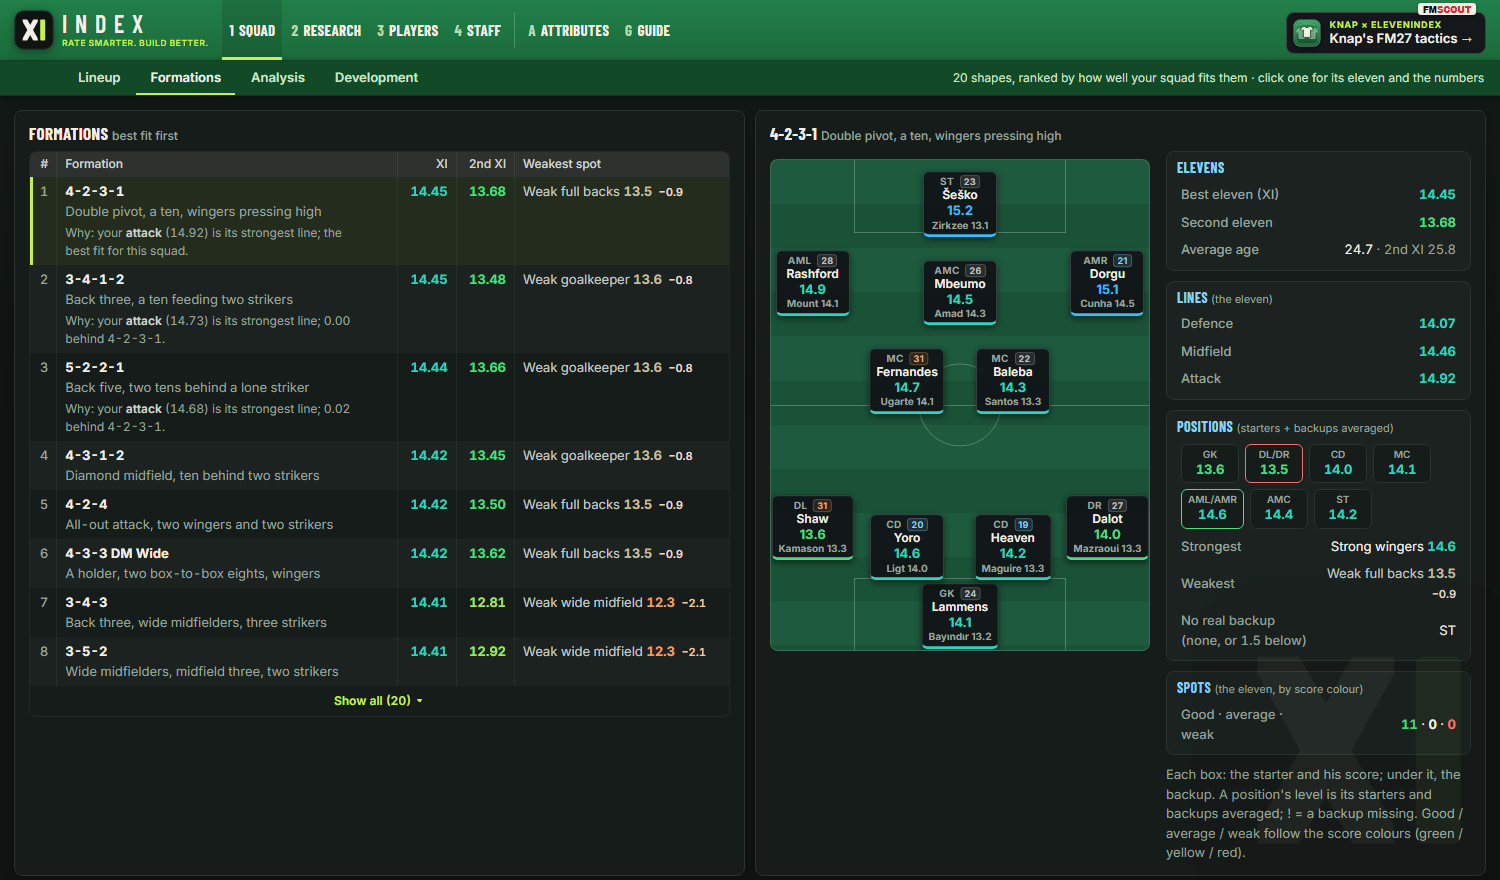
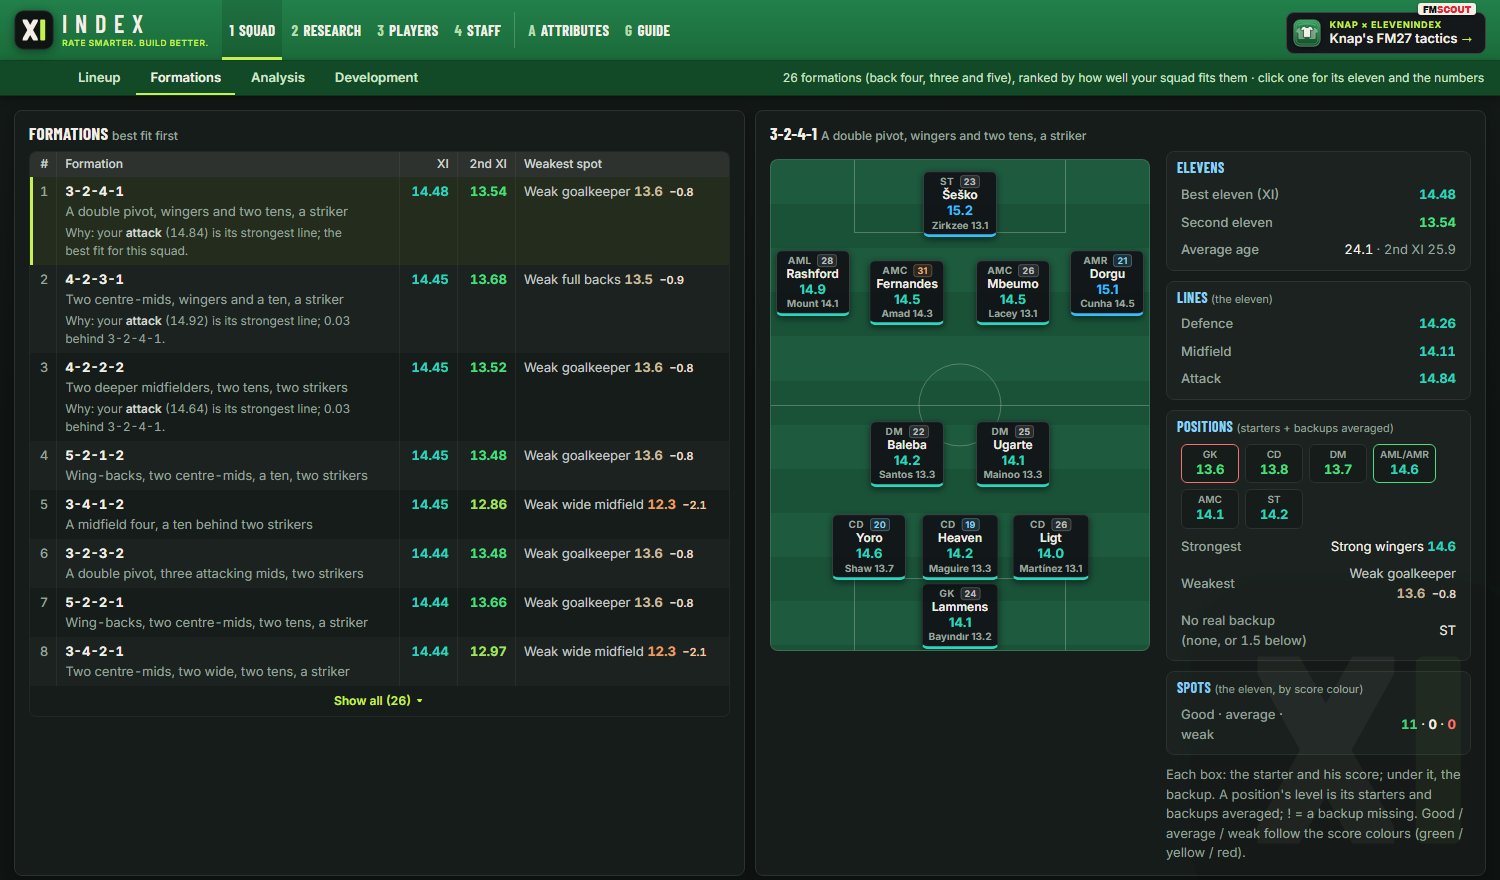
ElevenIndex 1.18.0: 26 formations, faster start, instant close
Formations: the user's 26 shapes by back line (FM27 positions, 3-4-3-0 strikerless). Start opens last time's pages and
rescores behind them (rescore_on_start; pages swapped in from .tmp; same data = same bytes). Closing hides the window,
waits for the import lock, then exits. Auto-import toggles in place in the Menu. Position text parsing cached.

diff --git a/score.py b/score.py
@@ -54,7 +54,7 @@ def data_root():
 _HOME = os.environ.get("ELEVENINDEX_HOME") or os.environ.get("FMANALYST_HOME")
 ROOT = Path(_HOME) if _HOME else data_root() if getattr(sys, "frozen", False) else Path(__file__).parent
 CONFIG = ROOT / "config.toml"
-VERSION = "1.17.1"  # the app's version: the window title and the guide show it; the release tag is v<VERSION>
+VERSION = "1.18.0"  # the app's version: the window title and the guide show it; the release tag is v<VERSION>
 PROJECT_URL = "https://github.com/angelkirchev/ElevenIndex"
 CREATOR, CREATOR_URL = "Angelski", "https://community.sports-interactive.com/profile/428404-angelski/"  # About: the maker, on the official FM forum
 PAGES = ["squad", "formations", "analysis", "development", "charts", "elsewhere", "last", "compare", "staff",
@@ -537,7 +537,7 @@ def charts(rows, squad, w, cfg, last=frozenset()):
                         # where he plays, as the Lineup sees it: FM's positions when exported, else his best and its neighbours
                         **({"plays": r.get("plays") or NEAR.get(r["best"], [r["best"]])} if id(r) in mine else {}),
                         "scores": {g: r[g] for g in weights if r.get(g) is not None},
-                        "attrs": {a: attrs[a] for a in shown if a in attrs}})
+                        "attrs": {a: v for a, v in attrs.items() if a in shown}})
     return {"positions": list(weights), "players": players, "tops": tops, "managed": cfg["managed_club"],
             "division": cfg.get("division"), "weights": weights, "groups": ATTRIBUTE_GROUPS}
 
@@ -572,6 +572,11 @@ def compare_page(rows, squad, w, cfg):
 
 def fm_positions(text):
     """FM's position text ("D/WB (R), M (RC)", "AM (RL), ST (C)", "GK") -> the weights' position groups, in order."""
+    return list(_fm_positions(text or ""))
+
+
+@functools.lru_cache(maxsize=None)
+def _fm_positions(text):  # a few hundred distinct texts among tens of thousands of players: each worked out once
     groups = []
     for part in (text or "").split(","):
         m = re.match(r"\s*([A-Z/]+)\s*(?:\(([RLC]+)\))?", part)
@@ -585,7 +590,7 @@ def fm_positions(text):
                      "M": ["MC"] * ("C" in sides) + ["ML/MR"] * wide,
                      "AM": ["AMC"] * ("C" in sides) + ["AML/AMR"] * wide}.get(role, [])
             groups += [g for g in found if g not in groups]
-    return groups
+    return tuple(groups)
 
 
 WIDE_ROLES = {"D": "DL/DR", "WB": "WBL/WBR", "M": "ML/MR", "AM": "AML/AMR"}
@@ -595,6 +600,11 @@ WIDE_GROUPS = set(WIDE_ROLES.values())
 def fm_sides(text):
     """FM's position text -> the sides he plays at the wide positions: "D/WB (R), AM (RL)" -> {"DL/DR": "R",
     "WBL/WBR": "R", "AML/AMR": "LR"}. Empty without the Position column (the foot decides then)."""
+    return dict(_fm_sides(text or ""))
+
+
+@functools.lru_cache(maxsize=None)
+def _fm_sides(text):
     out = {}
     for part in (text or "").split(","):
         m = re.match(r"\s*([A-Z/]+)\s*(?:\(([RLC]+)\))?", part)
@@ -603,35 +613,46 @@ def fm_sides(text):
             if role in WIDE_ROLES:
                 g = WIDE_ROLES[role]
                 out[g] = "".join(sorted(set(out.get(g, "") + sides)))
-    return out
+    return tuple(out.items())
 
 
 
 
 
-# Common FM formations, as the weights' position groups (a wide pair counts twice: one left, one right). Roles and duties
-# don't show in the scores, so shapes with the same positions (5-2-3 Wide and 5-2-2-1) rank the same.
+# Formations, as the weights' position groups (a wide pair counts twice: one left, one right).
+# The formations, by back line: back four, back three, back five. "Forwards" are strikers, "wingers" AM (L/R); D (L/R)
+# full-backs, WB wing-backs, M (L/R) wide midfield, M (C) centre-mids, AM (C) tens, DM holders; 3-4-3-0 has no striker.
+# 3-5-2 and 5-3-2 have the same positions (wing-backs, a midfield three), so they rank the same.
 FORMATIONS = [
-    ("4-2-3-1", "Double pivot, a ten, wingers pressing high", {"DL/DR": 2, "CD": 2, "MC": 2, "AML/AMR": 2, "AMC": 1, "ST": 1}),
-    ("4-3-3 DM Wide", "A holder, two box-to-box eights, wingers", {"DL/DR": 2, "CD": 2, "DM": 1, "MC": 2, "AML/AMR": 2, "ST": 1}),
-    ("4-3-3", "Flat midfield three, a front three of strikers", {"DL/DR": 2, "CD": 2, "MC": 3, "ST": 3}),
-    ("4-2-3-1 DM Wide", "Two holders, a ten, two wide forwards", {"DL/DR": 2, "CD": 2, "DM": 2, "AMC": 1, "AML/AMR": 2, "ST": 1}),
-    ("3-4-3", "Back three, wide midfielders, three strikers", {"CD": 3, "ML/MR": 2, "MC": 2, "ST": 3}),
-    ("3-4-2-1", "Two holders, two runners, wing backs for width", {"CD": 3, "WBL/WBR": 2, "DM": 2, "MC": 2, "ST": 1}),
-    ("4-4-2", "Two banks of four, strike partnership", {"DL/DR": 2, "CD": 2, "ML/MR": 2, "MC": 2, "ST": 2}),
-    ("4-2-2-2", "Narrow: two tens, two strikers", {"DL/DR": 2, "CD": 2, "DM": 2, "AMC": 2, "ST": 2}),
-    ("5-2-3 Wide", "Back five, front three on the break", {"CD": 3, "WBL/WBR": 2, "MC": 2, "AML/AMR": 2, "ST": 1}),
-    ("4-3-1-2", "Diamond midfield, ten behind two strikers", {"DL/DR": 2, "CD": 2, "DM": 1, "MC": 2, "AMC": 1, "ST": 2}),
-    ("5-4-1", "Deep low block, counter-attacks", {"CD": 3, "WBL/WBR": 2, "ML/MR": 2, "MC": 2, "ST": 1}),
-    ("5-2-2-1", "Back five, two tens behind a lone striker", {"CD": 3, "WBL/WBR": 2, "MC": 2, "AMC": 2, "ST": 1}),
-    ("4-2-4", "All-out attack, two wingers and two strikers", {"DL/DR": 2, "CD": 2, "MC": 2, "AML/AMR": 2, "ST": 2}),
-    ("3-5-2", "Wide midfielders, midfield three, two strikers", {"CD": 3, "ML/MR": 2, "DM": 1, "MC": 2, "ST": 2}),
-    ("5-3-2", "Back five, midfield three, direct to two strikers", {"CD": 3, "WBL/WBR": 2, "MC": 3, "ST": 2}),
-    ("4-1-4-1", "A holder behind a midfield four, compact", {"DL/DR": 2, "CD": 2, "DM": 1, "ML/MR": 2, "MC": 2, "ST": 1}),
-    ("4-4-1-1", "Compact 4-4-2 with a deep-lying forward", {"DL/DR": 2, "CD": 2, "ML/MR": 2, "MC": 2, "AMC": 1, "ST": 1}),
-    ("3-4-1-2", "Back three, a ten feeding two strikers", {"CD": 3, "WBL/WBR": 2, "MC": 2, "AMC": 1, "ST": 2}),
-    ("4-3-2-1", "Christmas tree: narrow, two tens", {"DL/DR": 2, "CD": 2, "MC": 3, "AMC": 2, "ST": 1}),
-    ("3-4-3-0", "Strikerless: false nine and inside forwards", {"CD": 3, "WBL/WBR": 2, "MC": 2, "AML/AMR": 2, "AMC": 1}),
+    # back four
+    ("4-4-2", "A flat midfield four, two strikers", {"DL/DR": 2, "CD": 2, "ML/MR": 2, "MC": 2, "ST": 2}),
+    ("4-4-2 Diamond Narrow", "A holder, two centre-mids, a ten, two strikers", {"DL/DR": 2, "CD": 2, "DM": 1, "MC": 2, "AMC": 1, "ST": 2}),
+    ("4-4-2 Diamond Wide", "A holder, two wide midfielders, a ten, two strikers", {"DL/DR": 2, "CD": 2, "DM": 1, "ML/MR": 2, "AMC": 1, "ST": 2}),
+    ("4-4-1-1", "A flat midfield four, a ten behind a lone striker", {"DL/DR": 2, "CD": 2, "ML/MR": 2, "MC": 2, "AMC": 1, "ST": 1}),
+    ("4-3-3", "Three centre-mids behind three strikers", {"DL/DR": 2, "CD": 2, "MC": 3, "ST": 3}),
+    ("4-3-2-1", "Christmas tree: three centre-mids, two tens, a striker", {"DL/DR": 2, "CD": 2, "MC": 3, "AMC": 2, "ST": 1}),
+    ("4-3-1-2", "Three centre-mids, a ten behind two strikers", {"DL/DR": 2, "CD": 2, "MC": 3, "AMC": 1, "ST": 2}),
+    ("4-2-3-1", "Two centre-mids, wingers and a ten, a striker", {"DL/DR": 2, "CD": 2, "MC": 2, "AML/AMR": 2, "AMC": 1, "ST": 1}),
+    ("4-2-2-2", "Two deeper midfielders, two tens, two strikers", {"DL/DR": 2, "CD": 2, "MC": 2, "AMC": 2, "ST": 2}),
+    ("4-2-4", "Two centre-mids, two wingers, two strikers", {"DL/DR": 2, "CD": 2, "MC": 2, "AML/AMR": 2, "ST": 2}),
+    ("4-1-4-1", "A holder behind a flat midfield four, a striker", {"DL/DR": 2, "CD": 2, "DM": 1, "ML/MR": 2, "MC": 2, "ST": 1}),
+    ("4-1-2-3 DM Wide", "A holder, two centre-mids, two wingers, a striker", {"DL/DR": 2, "CD": 2, "DM": 1, "MC": 2, "AML/AMR": 2, "ST": 1}),
+    # back three
+    ("3-5-2", "Wing-backs, three centre-mids, two strikers", {"CD": 3, "WBL/WBR": 2, "MC": 3, "ST": 2}),
+    ("3-4-3 Wide", "A midfield four, three strikers", {"CD": 3, "ML/MR": 2, "MC": 2, "ST": 3}),
+    ("3-4-3 Diamond", "A holder, wide midfielders, a ten, three strikers", {"CD": 3, "DM": 1, "ML/MR": 2, "AMC": 1, "ST": 3}),
+    ("3-4-2-1", "Two centre-mids, two wide, two tens, a striker", {"CD": 3, "ML/MR": 2, "MC": 2, "AMC": 2, "ST": 1}),
+    ("3-4-1-2", "A midfield four, a ten behind two strikers", {"CD": 3, "ML/MR": 2, "MC": 2, "AMC": 1, "ST": 2}),
+    ("3-2-4-1", "A double pivot, wingers and two tens, a striker", {"CD": 3, "DM": 2, "AML/AMR": 2, "AMC": 2, "ST": 1}),
+    ("3-2-3-2", "A double pivot, three attacking mids, two strikers", {"CD": 3, "DM": 2, "AML/AMR": 2, "AMC": 1, "ST": 2}),
+    ("3-1-4-2", "A holder, a midfield four, two strikers", {"CD": 3, "DM": 1, "ML/MR": 2, "MC": 2, "ST": 2}),
+    ("3-4-3-0", "Strikerless: wing-backs, two centre-mids, wingers and a ten", {"CD": 3, "WBL/WBR": 2, "MC": 2, "AML/AMR": 2, "AMC": 1}),
+    # back five
+    ("5-4-1", "Wing-backs, a midfield four, a striker", {"CD": 3, "WBL/WBR": 2, "ML/MR": 2, "MC": 2, "ST": 1}),
+    ("5-3-2", "Wing-backs, three centre-mids, two strikers", {"CD": 3, "WBL/WBR": 2, "MC": 3, "ST": 2}),
+    ("5-2-3", "Wing-backs, two centre-mids, three strikers", {"CD": 3, "WBL/WBR": 2, "MC": 2, "ST": 3}),
+    ("5-2-2-1", "Wing-backs, two centre-mids, two tens, a striker", {"CD": 3, "WBL/WBR": 2, "MC": 2, "AMC": 2, "ST": 1}),
+    ("5-2-1-2", "Wing-backs, two centre-mids, a ten, two strikers", {"CD": 3, "WBL/WBR": 2, "MC": 2, "AMC": 1, "ST": 2}),
 ]
 FORMATION_ORDER = ["GK", "CD", "DL/DR", "WBL/WBR", "DM", "MC", "ML/MR", "AMC", "AML/AMR", "ST"]
 LINES = {"Defence": {"CD", "DL/DR", "WBL/WBR"}, "Midfield": {"DM", "MC", "ML/MR"}, "Attack": {"AMC", "AML/AMR", "ST"}}  # Formations' lines
@@ -1189,7 +1210,7 @@ def build(save, config):
     shown_others, hidden_note = keep_best(others)
     info = {
         "squad": f"{many(len(squad), 'player')} at {managed} · click a position on the pitch for everyone who plays it",
-        "formations": "20 shapes, ranked by how well your squad fits them · click one for its eleven and the numbers",
+        "formations": "26 formations (back four, three and five), ranked by how well your squad fits them · click one for its eleven and the numbers",
         "analysis": "your team position by position, against the players you've imported",
         "development": "how your players changed between two squad exports",
         "elsewhere": f"{many(len(others), 'player')} at other clubs, from everything you've imported" + hidden_note,
@@ -1379,7 +1400,10 @@ def write_pages(save, config, cfg, pages):
                               "__DATA__": as_script(data)}.items():
             text = text.replace(marker, value)
         text = text.replace('<html lang="en">', f'<html lang="en" data-theme="{theme_of(config)}">', 1)
-        (out / f"{page}.html").write_text(text, encoding="utf-8")
+        # written beside it, then swapped in: a window opening the page meanwhile never reads half a file
+        tmp = out / f"{page}.html.tmp"
+        tmp.write_text(text, encoding="utf-8")
+        os.replace(tmp, out / f"{page}.html")
     for stale in out.glob("*.html"):
         if stale.stem not in pages:
             stale.unlink()
@@ -1433,7 +1457,7 @@ GUIDE = [
              "starts here, blue = starts elsewhere) and the best on your lists who'd beat your starter. The advice under the "
              "pitch names the weak spot. Below: your whole squad as a table."},
     {"key": "formations", "title": "Formations",
-     "text": "20 shapes ranked by how well your squad fits them: the eleven's average, a second eleven's, and the weakest "
+     "text": "26 formations with a back four, three or five, ranked by how well your squad fits them: the eleven's average, a second eleven's, and the weakest "
              "spot. Click one to see it on a pitch with backups and the numbers by line."},
     {"key": "analysis", "title": "Analysis",
      "text": "Your team position by position, strongest to weakest, against the players you've imported. "

diff --git a/app.py b/app.py
@@ -620,9 +620,51 @@ class App:
         return False
 
     def quit(self):
+        """Close at once: hide the window, let an import that's still writing finish (every write holds self.lock), then
+        end the process. Waiting for WebView2 to tear the window down (window.destroy) took 2-3 s for nothing; its
+        browser processes end by themselves when the app does."""
         self.quitting = True
-        threading.Timer(0.1, self.window.destroy).start()
-        threading.Timer(3, lambda: os._exit(0)).start()  # if the window won't go (a stuck browser), end the app anyway
+        def hide():
+            try:
+                self.window.hide()
+            except Exception:
+                pass
+        hider = threading.Thread(target=hide, daemon=True)
+        hider.start()
+        def end():
+            hider.join(1)  # gone from the screen first: ending the process stops the window's thread, and Windows then
+            # takes ~2 s to unload WebView2 with the window still showing
+            self.lock.acquire(timeout=15)  # an import mid-write finishes first (15 s at most)
+            os._exit(0)
+        threading.Thread(target=end, daemon=True).start()
+
+    def rescore_on_start(self, behind=False):
+        """Score the save and write its pages. behind: the window is already showing last time's pages, so reload the
+        page you're on when they changed (the same data gives the same pages: nothing reloads then)."""
+        with self.lock:  # an import waits for it
+            out = score.ROOT / "out" / self.save
+            before = {p.name: p.read_bytes() for p in out.glob("*.html")} if behind else {}
+            try:
+                cfg, pages = score.build(self.save, self.config)
+                score.write_pages(self.save, self.config, cfg, pages)
+            except (Exception, SystemExit) as e:
+                log_error("rescoring on start")
+                if not behind:
+                    self.notice = (f"Couldn't update the pages: {e}", True)
+                    return
+                self.wait_loaded()
+                self.show_notice(f"Couldn't update the pages: {e}", True)
+                return
+            changed = behind and before != {p.name: p.read_bytes() for p in out.glob("*.html")}
+        if changed:
+            self.wait_loaded()
+            self.window.evaluate_js("location.reload()")
+
+    def wait_loaded(self, timeout=15):
+        """Until the window's first page has loaded (on_load), at most timeout seconds."""
+        end = time.time() + timeout
+        while not getattr(self, "page_loaded", False) and time.time() < end:
+            time.sleep(0.05)
 
     def watch_load(self):
         """A start that never shows its page (a rare WebView2 hang: a blank, black window): after 10 s reload it once,
@@ -696,14 +738,13 @@ class App:
         if self.save is None:
             where, title = {"html": self.setup_page()}, window_title()
         else:
-            # rescore on every start, so a change of weights (or a newer version of the app) shows straight away
-            try:
-                cfg, pages = score.build(self.save, self.config)
-                score.write_pages(self.save, self.config, cfg, pages)
-            except (Exception, SystemExit) as e:
-                self.notice = (f"Couldn't update the pages: {e}", True)
-                log_error("rescoring on start")
+            # rescore on every start, so a change of weights (or a newer version of the app) shows straight away. With
+            # last time's pages there, the window opens on them at once and the rescoring runs behind it (a big save
+            # takes seconds); the page reloads if anything changed. The first time, the pages are made before it opens.
             page = score.ROOT / "out" / self.save / "squad.html"  # the app opens on Squad › Lineup
+            behind = page.exists()
+            if not behind:
+                self.rescore_on_start()
             where = {"url": page.resolve().as_uri()} if page.exists() else {"html": screen("start", self.club_name())}
             title = window_title(self.save)
         self.window = webview.create_window(title, js_api=MainApi(self), width=1400, height=900, **where)
@@ -712,6 +753,8 @@ class App:
         threading.Thread(target=self.watch_exports, daemon=True).start()
         threading.Thread(target=self.check_update, daemon=True).start()
         threading.Thread(target=self.watch_load, daemon=True).start()
+        if self.save is not None and behind:
+            threading.Thread(target=self.rescore_on_start, args=(True,), daemon=True).start()
         self.window.events.closed += lambda: os._exit(0)  # closing the window ends the app
         # The XI mark in the title bar and taskbar, from source too (not Python's icon). Its own app ID keeps
         # Windows from grouping the window with other Python programs on the taskbar.
@@ -1083,7 +1126,8 @@ TOOLBAR_JS = """(() => {
     "border:1px solid var(--line,#2a332f);border-radius:10px;background:var(--pop,#121815);box-shadow:0 12px 30px #000c";
   document.body.append(list);
   // main: the one used most (Import file…), in the accent, lighter than the rest
-  const item = (text, hint, run, main) => {
+  // keep: the menu stays open after the click (a switch, like Auto-import)
+  const item = (text, hint, run, main, keep) => {
     const it = document.createElement("button");
     const rest = main ? "color-mix(in srgb, var(--blue,#c5f04f) 16%, transparent)" : "transparent";
     const over = main ? "color-mix(in srgb, var(--blue,#c5f04f) 28%, transparent)" : "var(--hover,#232c29)";
@@ -1092,13 +1136,23 @@ TOOLBAR_JS = """(() => {
     it.innerHTML = text + (hint ? `<div style="color:${main ? "#cfd6d1" : "#9aa49f"};font-size:12px;font-weight:400">${hint}</div>` : "");
     it.onmouseenter = () => it.style.background = over;
     it.onmouseleave = () => it.style.background = rest;
-    it.onclick = () => { list.style.display = "none"; run(); };
+    it.onclick = e => { if (keep) { e.stopPropagation(); run(it); } else { list.style.display = "none"; run(); } };
     return it;
   };
   const line = () => { const l = document.createElement("div"); l.style.cssText = "height:1px;margin:5px 6px;background:var(--line,#2a332f)"; return l; };
   const label = t => { const l = document.createElement("div"); l.textContent = t;
     l.style.cssText = "padding:6px 12px 3px;color:#9aa49f;font:700 10px/1 Inter,'Segoe UI',sans-serif;letter-spacing:.08em;text-transform:uppercase"; return l; };
   const escH = t => String(t).replace(/[&<>"]/g, c => ({ "&": "&amp;", "<": "&lt;", ">": "&gt;", '"': "&quot;" })[c]);
+  // Auto-import: a switch; a click flips it in place (ON / OFF), the menu stays open
+  const autoText = on => `Auto-import <span style="margin-left:6px;padding:1px 8px;border-radius:999px;font-size:11px;font-weight:700;${on
+    ? 'color:#0f1412;background:#c5f04f">ON' : 'color:#cfd6d1;background:#2a332f">OFF'}</span>`;
+  const autoHint = on => on ? "every new export (F8 in FM) is imported by itself · click to turn off" : "import each new export (F8 in FM) by itself · click to turn on";
+  const autoItem = d => item(autoText(d.auto), autoHint(d.auto), async it => {
+    const r = await pywebview.api.set_auto_import(!d.auto);
+    if (r && r.error) return window.fmNotice(r.error, true);
+    d.auto = !d.auto;
+    it.innerHTML = autoText(d.auto) + `<div style="color:#9aa49f;font-size:12px;font-weight:400">${autoHint(d.auto)}</div>`;
+  }, false, true);
   const fill = async () => {
     const d = window.pywebview ? await pywebview.api.menu_data() : { recent: [], saves: [] };
     list.innerHTML = "";
@@ -1139,15 +1193,7 @@ TOOLBAR_JS = """(() => {
     }
     list.append(item("Import file…", "an FM27 Exporter file (F8 in FM), or drop one on the window · key I", () => window.pywebview && pywebview.api.pick_file(), true),
       item("Open the exports folder", "where FM27 Exporter saves its files", () => window.pywebview && pywebview.api.open_exports()),
-      item(`Auto-import <span style="margin-left:6px;padding:1px 8px;border-radius:999px;font-size:11px;font-weight:700;${d.auto
-        ? 'color:#0f1412;background:#c5f04f">ON' : 'color:#cfd6d1;background:#2a332f">OFF'}</span>`,
-        d.auto ? "every new export (F8 in FM) is imported by itself · click to turn off" : "import each new export (F8 in FM) by itself · click to turn on",
-        async () => {
-          const r = await pywebview.api.set_auto_import(!d.auto);
-          if (r && r.error) return window.fmNotice(r.error, true);
-          window.fmNotice(d.auto ? "New exports will offer an Import button again." : "Every new export (F8 in FM) is now imported by itself.",
-            false, { title: d.auto ? "Auto-import off" : "Auto-import on" });
-        }), line(),
+      autoItem(d), line(),
       item("Saves…", "switch, start, delete, back up or restore a save", () => window.fmSaves()), line(),
       item("Theme…", "the app's colours", () => window.fmTheme()),
       item("Check for updates", "is there a newer ElevenIndex?", async () => {

diff --git a/AGENTS.md b/AGENTS.md
@@ -15,6 +15,9 @@ and track them over time. Everything runs locally; the user's data never leaves 
   `purge_deleted` removes it), the Menu (under the logo, key M; recent exports, switch save, Back up / Restore a backup, the GitHub update check `check_update`), the exports watcher (`watch_exports`: a new export offers Import, or imports itself with Menu → Auto-import on, config.toml's `auto_import`), drag and drop (`on_drop`), Menu → Theme… (five colour themes: `THEMES` in score.py, `:root[data-theme]` in
   theme.css, config.toml's `theme`, stamped on each page's `<html>`), and the Attributes page's
   save / switch / import / export. Its title is `ElevenIndex <VERSION> — Save: <save>`.
+  On start it opens last time's pages at once and rescores behind them (`rescore_on_start`, under `self.lock`), reloading
+  the page only when the pages changed; `write_pages` writes each page to a .tmp and swaps it in, and the same data gives
+  byte-identical pages. Closing hides the window, waits for `self.lock`, then ends the process (`quit`).
 - `import_export.py`: an FM27 Exporter file (CSV or HTML) → observation CSVs in the save. Players go to
   `saves/<save>/obs/<date>_<source>_<gk|outfield>.csv`, staff to `saves/<save>/staff/<date>_<source>.csv`.
 - `score.py`: reads a save's observations, scores them, and writes `out/<save>/<page>.html` from `template.html`
@@ -44,7 +47,7 @@ page has a line about its list at the strip's right (`with_info`).
 | Key | File | Menu | What it shows |
 |---|---|---|---|
 | 1 | squad | Squad › Lineup | a pitch for a formation (`pitchSlots`); click a position for everyone who plays it and the best on your lists (`targets`); the squad table below |
-| 1 | formations | Squad › Formations | the 20 shapes ranked (`formations`); one on a pitch with its XI, backups and numbers |
+| 1 | formations | Squad › Formations | 26 formations (back four, three, five) ranked (`formations`); one on a pitch with its XI, backups and numbers |
 | 1 | analysis | Squad › Analysis | the squad position by position, ranked by score (or an attribute), against imported players |
 | 1 | development | Squad › Development | two squad snapshots compared |
 | 2 | charts | Research › Players | per position, the listed players against your best; then one graph at a time |
@@ -103,7 +106,7 @@ score.py; bump `VERSION` with each release (tag `v<VERSION>`).
   Youngsters go to one Youth list per slot, best for their age first; a new intake (a file whose source contains
   `intake`) gets an Intake column until a squad export shows it. Without FM's positions a player only goes to his best
   position or its neighbours (`NEAR`). save.toml's `grid_pins`, `grid_senior`, `grid_youth` and `grid_exclude` override.
-- **Formations** (`FORMATIONS`, `formations`, `best_xi`): for each of 20 shapes, the best XI and a second XI (greedy:
+- **Formations** (`FORMATIONS`, `formations`, `best_xi`): for each of 26 shapes (back four, three, five), the best XI and a second XI (greedy:
   best player-position pair first, each player once, where he plays), their averages and the weakest spot. Complete
   shapes first.
 - Who's at the club: the newest full squad export (not a `-u18s`/`-u21s`/`-reserves` one, `PARTIAL_SQUAD`) decides;

diff --git a/README.md b/README.md
@@ -33,7 +33,7 @@
 
 <table>
   <tr>
-    <td width="50%" valign="top"><img src="docs/screenshots/formations.png" alt="Formations"><br><sub><b>Formations</b>: 20 shapes ranked by how well your squad fits them, each with its numbers</sub></td>
+    <td width="50%" valign="top"><img src="docs/screenshots/formations.png" alt="Formations"><br><sub><b>Formations</b>: 26 formations ranked by how well your squad fits them, each with its numbers</sub></td>
     <td width="50%" valign="top"><img src="docs/screenshots/profile.png" alt="A player's profile"><br><sub><b>Profiles</b>: what he's good for, strengths, weaknesses, what to train first</sub></td>
   </tr>
   <tr>
